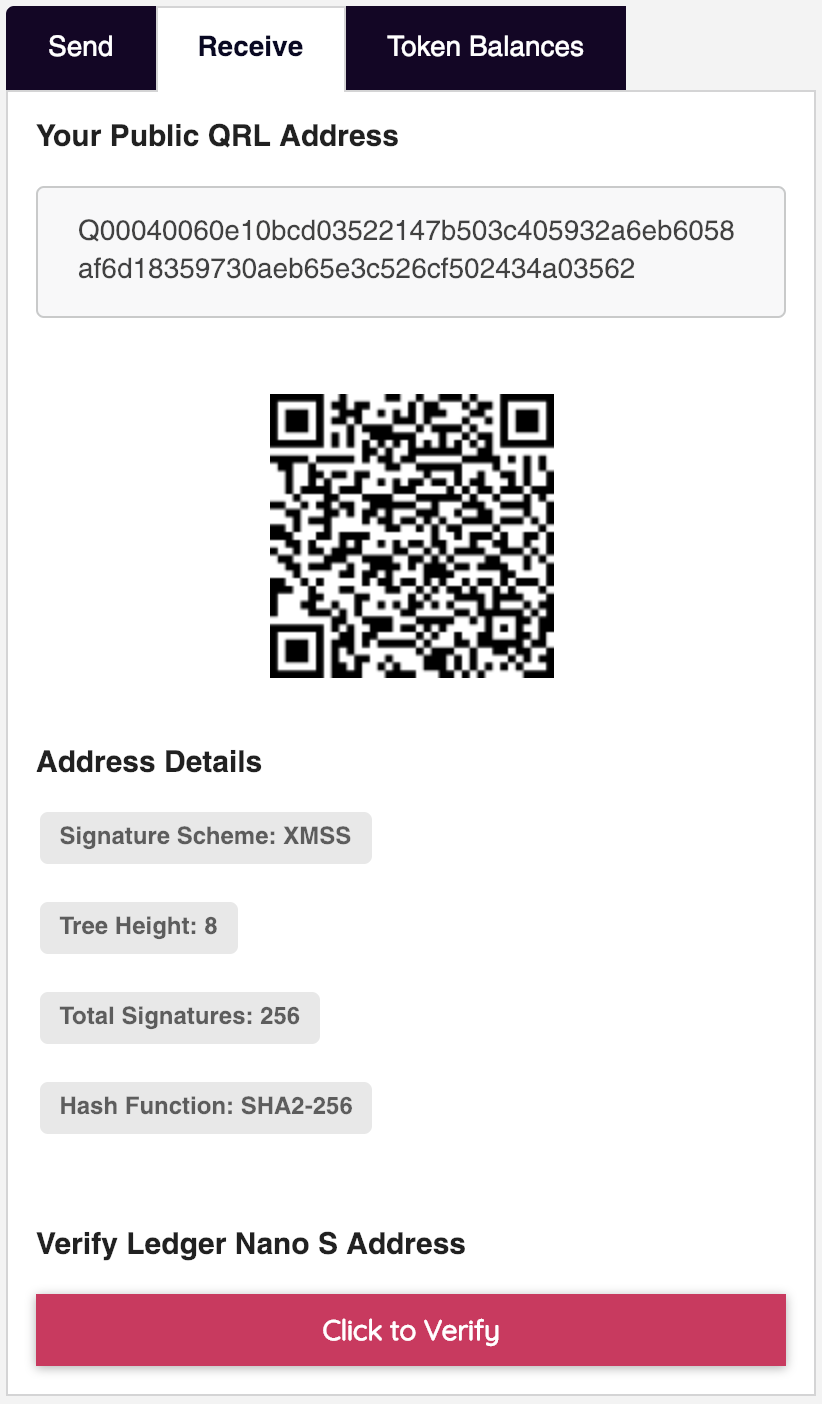
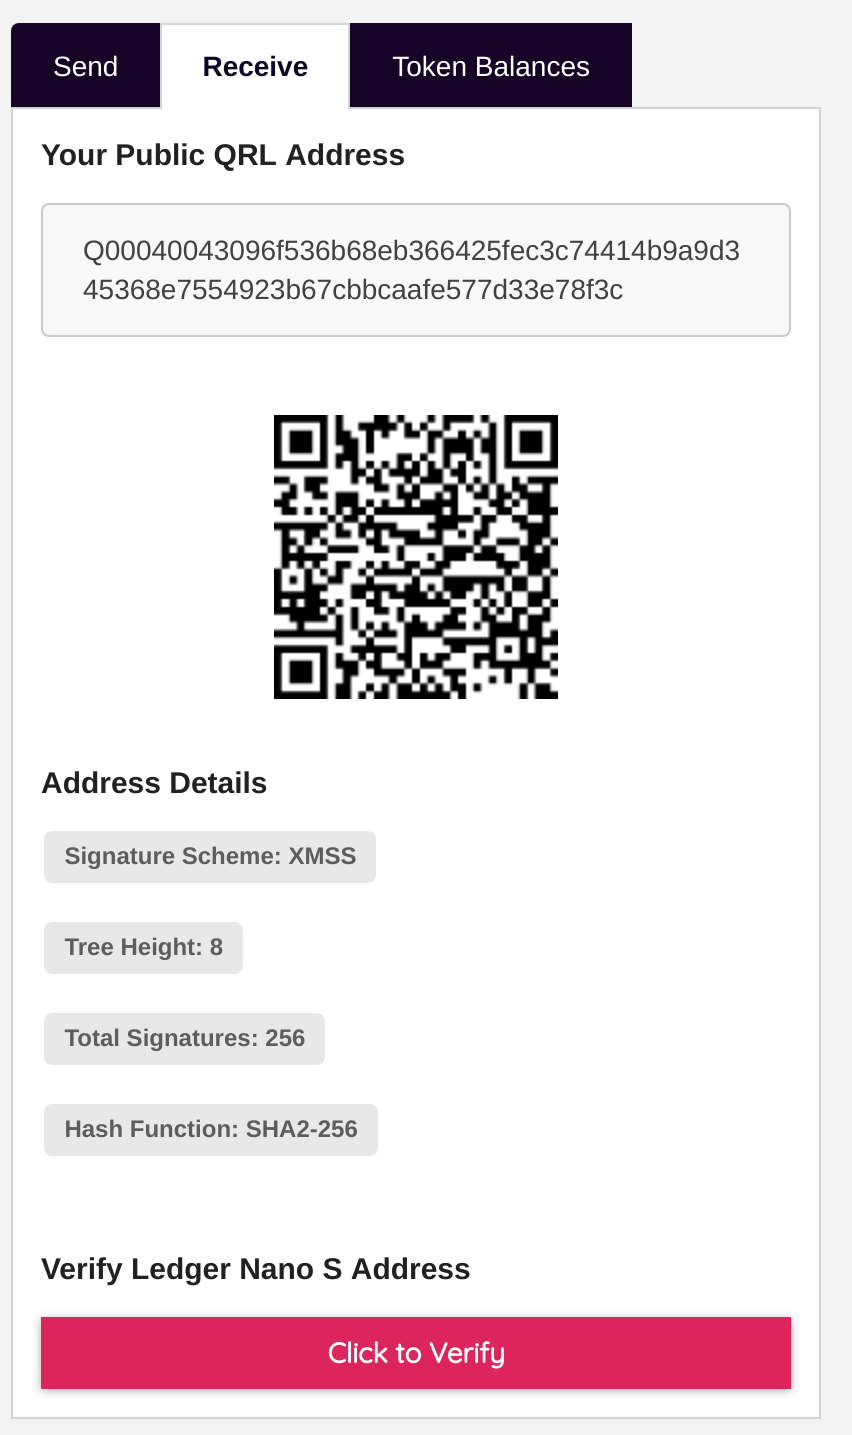
Ledger updates for new features (#7)
* Adding new gifs and some write up
* add ubuntu Fix-connection-issues link
* Cleanup and ledger quirks
* danger message
* cleanup

diff --git a/_layouts/documentation.html b/_layouts/documentation.html
@@ -10,7 +10,7 @@ layout: default
 				<div class="w12 get-involved">
 					<h1>Token Migration</h1>
 					<ul>
-						<li><a href="https://migration.theqrl.org/"">Token Migration Web App</a></li>
+						<li><a href="https://migration.theqrl.org/">Token Migration Web App</a></li>
 						<li><a href="/tokenmigration/video">Video Guide</a></li>
 						<li><a href="/tokenmigration/guide">Text Migration Guide</a> </li>
 					</ul>

diff --git a/_docs/wallet/ledger-nano-s.md b/_docs/wallet/ledger-nano-s.md
@@ -1,92 +1,203 @@
 ---
-title: Ledger Nano S Usage
+title: Ledger Nano S
 categories: wallet
 description: The QRL Ledger Nano-S Wallet documentation
-tags: [wallet, ledger, nano]
+tags: [wallet, Ledger, nano]
 ---
 
-##### This guide will walk you through
+The QRL development team has added some new features with the latest release we are very excited about. 
 
-* Installing the QRL App on your Ledger Nano S
-* Initialising the QRL App after installation on your Ledger Nano S
-* Accessing your QRL Wallet with the Ledger Nano S
+* Support for Ledger [Nano S](https://shop.ledger.com/products/ledger-nano-s) and [Nano X](https://shop.ledger.com/pages/ledger-nano-x)
+* Multi-Tree support
+* Plausible Deniability
+
+
+The QRL developers have worked to trim bits and bytes to get the XMSS trees to fit on the Ledger. After the latest optimizations in the latest firmware one can now load multiple trees and store more than one wallet on the Ledger Nano S. 
+
+
+#### This guide will walk you through
+
+* Installing the QRL App
+* Initializing XMSS trees in the QRL App 
+* Accessing your QRL Wallets with the Ledger Nano S
 * Receiving a transaction over the network - *(Receive QRL)*
 * Sending a transaction over the network - *(Send QRL)*
 * Checking transaction details on the QRL Explorer, including your current wallet balance
 * Manually setting the OTS Key Index on your Ledger Nano S device.
 
+
+### Multi-Tree Support
+
+This new feature adds the ability to store multiple XMSS trees on your Ledger Nano, Up to four (4) with the use of the new plausible deniability features. Each tree is limited still to 256 keys, however now you can sign up to 1024 combined transactions. 
+
+![MultiTree Support](/assets/wallet/web/ledger-nano-s/keyspace-small.png)
+
+This feature will allow you to store 2 QRL addresses with 256 available transactions each on your Ledger from each profile enabled *(Up to 4 addresses between 2 profiles)*.
+
+When you reach the end of your first address OTS key pool, you have the opportunity to send all funds to the second address and continue using the Ledger. 
+
+Once both trees have been consumed you will have to transfer funds into a new address, and re-initialize the Ledger to generate new keys. Don't worry too much though, the web/desktop wallet will warn you when your keys are close to running out. 
+
+
+### Plausible Deniability
+
+One of the most exciting features to roll out with this latest release is the ability to secure your funds from the *"$5 wrench attack"*. This new feature creates a secondary passphrase to open your Ledger device with. 
+
+This second account space allows another 2 QRL XMSS trees or *Addresses* to be created on the Ledger. To access the new account space on your Ledger you will enter the new passphrase you setup when you first power up the Ledger. 
+
+This will add an additional word to the 24 word mnemonic phrase, creating 2 word lists. The first being the typical 24 word Ledger recovery key, the second being the same 24 word phrase plus the additional word setup during configuration.
+
+
+![MultiTree Support](/assets/wallet/web/ledger-nano-s/keyspace2.png)
+
+
+To read more on the setup and configuration of the second account space see [this article from the Ledger team](https://support.ledger.com/hc/en-us/articles/115005214529-Advanced-passphrase-security)
+
+This feature is optional and there is no way to tell from the Ledger if you have configured this extra space. Plausibly deniable and fully recoverable secure funds!
+
+To setup the second address space, follow [The official ledger guide](https://support.ledger.com/hc/en-us/articles/115005214529-Advanced-passphrase-security). After you have secured the additional mnemonic word for the second space follow this guide again to initialize the 3rd and 4th QRL addresses.
+
+
+
+### Ledger Nano S Quirks
+
 Being Quantum Resistant comes with some inherent challenges. Before using the QRL Ledger Nano S app for your wallet, there are a few quirks worth noting about QRL. 
- 
-### OTS Key Index
 
-When you create a new wallet you create an XMSS tree, which is comprised of many one time use signatures. Every signature is referenced as your OTS index or [One Time Signature](/developers/ots) key index. 
 
-**The OTS key index is limited.** 
+#### Private Keys
 
-You can only use each key **ONCE**. When you've used your _last_ key, you will no longer be able to sign transactions. This cannot be stressed enough! 
+The Ledger will not print your *QRL* private key. This is stored on the Ledgers secure element, and the basis of what makes this device so secure. 
 
-> **NOTE** With your last key you must empty your wallet. If you use all of your OTS Key Indexes with funds in the wallet, these funds will be **lost FOREVER**
+You will be presented with a private key to restore your Ledger device during the initial setup. Any application secrets will be tied to this private key, and it is required to restore your wallet if ever needed.
+
+Store your Ledger Device seed (mnemonic) somewhere safe, in an encrypted manner if possible (Recommended you have this information stored in multiple physical locations)
+
+With the addition of plausible deniability there is an additional self-set mnemonic word that must be stored as well. This additional word can be up to 100 characters max and is case sensitive. 
+
+This additional word is needed as much as your 24 word mnemonic to be able to restore your funds. You can think of it as an extra 25th word that you can choose. 
+
+>**If you forget or lose your keys, nobody will be able to help you!**
 {: .info}
 
-The [QRL Web Wallet](https://wallet.theqrl.org/) will provide ample warnings you are running low on OTS Keys (<=50) to ensure you have plenty of time to move your coins to a new address.
 
-### Ledger Nano S Specific Quirks
-* Track all OTS Keys used in a spreadsheet
-> **NOTE** Your Ledger Nano S will keep track of OTS keys for you, however if you ever lose the device and need to reinstall on a new device, you will have to reset your XMSS index inside the [QRL Web Wallet](https://wallet.theqrl.org/). You can rely on the state of the node you're communicating with; however this will not keep track of failed transactions where a signature was broadcast to the network and subsequently failed. It is best to track all OTS key usage elsewhere to ensure you never reuse the same OTS key.
-* Store your Ledger Device seed (mnemonic) somewhere safe, in an encrypted manner if possible
-* Currently the QRL Ledger Nano S app does not support the creation and sending of QR Tokens on the QRL Network. Only native Quanta (QRL) transfers and Message Transaction types and derivatives of are currently supported. A future release of the QRL Ledger Nano S app will support token creation, sending and slave transaction functionality.
+#### OTS Key Index
 
-## Installing the QRL Ledger Nano S Application
+When you create a new wallet you create an XMSS tree, which is comprised of many one time use signatures. Every signature is referenced as your OTS index or [One Time Signature](/developers/ots) key index. The Ledger will now hold 2 XMSS trees (QRL Addresses) in it's memory space. 
+
+>**The OTS key index is limited.** You can only use each key **ONCE**. 
+{: .danger}
+
+When you've used your _last_ key, you will no longer be able to sign transactions. This cannot be stressed enough!
+
+Your Ledger Nano S will keep track of OTS keys for you, however if you ever lose the device and need to reinstall on a new device, you will have to reset your XMSS index inside the [QRL Web Wallet](https://wallet.theqrl.org/). You can rely on the state of the node you're communicating with; however this will not keep track of failed transactions where a signature was broadcast to the network and subsequently failed. It is best to track all OTS key usage elsewhere to ensure you never reuse the same OTS key.
+
+> **NOTE** With your last key you must empty your wallet. If you use all of your OTS Key Indexes with funds in the wallet, these funds will be **lost FOREVER** (Don't worry, there are plenty of warnings along the way.) 
+{: .info}
+
+The [QRL Web Wallet](https://wallet.theqrl.org/) will provide ample warnings you are running low on OTS Keys (<=50) to ensure you have plenty of time to move your coins to a new address. It is up to you to move them, however!
+
+#### OTS Key Tracking
+
+It's recommended that you track all OTS Keys used in a spreadsheet or similar media. The Nano S will keep track of your OTS keys for you, however if you ever lose the device and need to reinstall on a new Ledger Nano S you will need to know which OTS keys have been consumed, 
+
+> **The basic security of XMSS is based on using any key exactly one time.**
+{: .info}
+
+The QRL software has been developed in such a way to help users track their OTS keys, it is ultimately up to the user to track and insure they have not re-used any keys.
+
+Once you have restored your wallet on a new Ledger, manually set the XMSS OTS key index inside the [QRL Web Wallet](https://wallet.theqrl.org/) tools section. See below to [Manually Set XMSS Index](#manually-set-xmss-index)  
+
+You can rely on the state of the node you're communicating with; however this will not keep track of failed transactions where a signature was broadcast to the network and subsequently failed. 
+
+> **NOTE**  It is best to track all OTS key usage elsewhere to ensure you never reuse the same OTS key.
+{: .info}
+
+#### Tokens and Messages
+
+Currently the QRL Ledger Nano S app does not support the creation and sending of QR Tokens on the QRL Network. Only native Quanta (QRL) transfers and Message Transaction types and derivatives of are currently supported. 
+
+A future release of the QRL Ledger Nano S app will support token creation, sending and slave transaction functionality. In the mean time you can setup another address [following our guide](/wallet/basics) and use this for all on chain tool uses.
+
+## Installing the QRL Application
 
 Using the [Ledger Live](https://www.ledger.com/pages/ledger-live) application, follow these instructions:
 
 1. Open the **Manager** in Ledger Live
-2. Connect and unlock your Ledger Nano S
-3. Allow the Manager on your Ledger Nano S device by pressing the right button if asked
+2. **Connect and Unlock** your Ledger Nano S
+3. Allow the Manager on your Ledger Nano S device by pressing the right button when asked
 4. Search the App catalog for **QRL**, and click the **Install** button next to the QRL app.
 	- An installation window will appear, and your device will display **Processing...**
 	- The QRL App installation has completed on your Ledger Nano S
 
 ## Initialising the QRL App
 
-Before you can use the QRL Ledger Nano S App, it must first be initialised. The initialisation process will generate an XMSS tree on your Ledger Nano S device, which is a unique aspect of the QRL Network's signature scheme. This process only has to be completed once on your Ledger Nano S device. Please allow up to 45 minutes for this process to complete.
+Before you can use the QRL Ledger Nano S App, it must first be initialised. The initialisation process will generate an XMSS tree on your Ledger Nano S device, which is a unique aspect of the QRL Network's signature scheme. This process only has to be completed once on your Ledger Nano S device. Please allow up to 45 minutes for this process to complete for each tree. 
 
 To initialise your Ledger Nano S device for use with the QRL App, follow these instructions:
 
-1. Make sure your Ledger Nano S device is powered on and unlocked.
-2. Open the **QRL** app on your Ledger Nano S
-3. Your Ledger Nano S device will show **QRL not ready**. Scroll down and press both buttons on the **Init Device** menu option.
-4. Your Ledger Nano S device will show **keygen: 001/256**. This will slowly progress until all 256 keys have been generated.
-5. When this process has completed, your Ledger Nano S device will show **QRL READY rem:256** - indicating your device is ready, and you have 256 OTS Keys remaining.
-6. Your Ledger Nano S device has been initialised for the QRL app.
+1. Make sure your Ledger Nano S device is **Connected** and **Unlocked**.
+2. Open the **QRL app** on your Ledger Nano S
+3. Your Ledger Nano S device will show **QRL (Tree 1) not ready**. 
+4. Scroll down and press both buttons on the **Init Device** menu option.
+5. Your Ledger Nano S device will show **QRL (Tree 1) keygen: 001/256**. This will slowly progress until all 256 keys have been generated.
+6. When this process has completed, your Ledger Nano S device will show **QRL (Tree 1) READY rem:256** - indicating your device has finished generating tree 1 OTS keys, and you have 256 OTS Keys remaining in this Tree.
+7. Scroll down in the menu and chose **Switch Tree** with both buttons. You will now see **QRL (Tree 2) Not Ready**
+8. Initialize Tree 2 following the same steps above. Again this process will take about 45 minuets to complete.
 
-## Accessing your QRL Wallet with the Ledger Nano S
+> Generating XMSS Tree 1 on the Ledger. This will take a while, have patience. ![Initializing Tree 1](/assets/wallet/web/ledger-nano-s/init-crop1.gif) 
+
+Your Ledger Nano S device has been initialised for the QRL app, and contains 2 addresses (XMSS Trees) ready to deposit funds to. 2 addresses contain 256 OTS keys each which can be used to sign transactions on the QRL network.
+
+
+| QRL Tree | OTS Keys | Address |
+|-----|-----|-----| 
+| Tree 1 | 256 OTS | Q00040043096f536b68eb36ec3~~fe577d33e78f3c |
+| Tree 2 | 256 OTS | Q000400c722c2198837153a697~~5ee40365da6ee2 |
+
+## Accessing Wallet with Ledger
+
+1. Make sure your Ledger Nano S device is **Connected**, **Unlocked** and the **QRL App is Open**.
+2. Select the tree to open by scrolling to **Switch Tree** in the QRL menu.
+3. Visit [https://wallet.theqrl.org/](https://wallet.theqrl.org/) in your browser or open the QRL desktop wallet.
+4. Click **Open Wallet** on the left hand menu.
+5. On the right hand side, select **Ledger Nano S** in the drop down menu.
+6. Click the **Open Ledger Nano S** button.
+
+![Open QRL Ledger Nano S Wallet](/assets/wallet/web/ledger-nano-s/openWallet.png)
+
+This will present you with the unlocked QRL wallet ready to send or receive as seen below.
+
+![Opened QRL Ledger Nano S Wallet](/assets/wallet/web/ledger-nano-s/opened.png)
+
+> **NOTE** Ubuntu users may run into issues connecting to their Ledger devices. Please reference [this article *Fix-connection-issues*](https://support.ledger.com/hc/en-us/articles/115005165269-Fix-connection-issues) from Ledger explaining the issue and solution.
+{: .info}
+
+> **NOTE** Chrome Users, there is a bug with chrome that will not allow the Ledger to work. Please use another application or download the [qrl wallet](https://theqrl.org)
+{: .info}
 
 > **NOTE** If you are a Firefox user, ensure you have enabled **u2f** before proceeding. [Enabling U2F support in Mozilla Firefox](https://support.yubico.com/support/solutions/articles/15000017511-enabling-u2f-support-in-mozilla-firefox)
 {: .info}
 
-1. Make sure your Ledger Nano S device is powered on, unlocked and the QRL App is open.
-2. Visit [https://wallet.theqrl.org/](https://wallet.theqrl.org/) in your browser.
-3. Click **Open Wallet** on the left hand menu.
-4. On the right hand side, select **Ledger Nano S** in the drop down menu.
-5. Click the **Open Ledger Nano S** button.
+### Receive QRL
 
-![Open QRL Ledger Nano S Wallet](/assets/wallet/web/ledger-nano-s/open.png)
+You should **always** verify the address shown in the [QRL Web Wallet](https://wallet.theqrl.org/) matches the address shown on your Ledger Nano S device. To confirm your address, click the **Click to Verify** button on the receive tab of the wallet. 
 
-![Opened QRL Ledger Nano S Wallet](/assets/wallet/web/ledger-nano-s/opened.png)
 
-## Receive QRL
+![Address Verification Ledger Nano S Wallet](/assets/wallet/web/ledger-nano-s/AddressVerification.png)
 
-You should **always** verify the address shown in the [QRL Web Wallet](https://wallet.theqrl.org/) matches the address shown on your Ledger Nano S device. To confirm your address, click the **Click to Verify** button on the receive tab of the wallet. Your QRL address will appear on your computer, and on your Ledger Nano S device.
+Your QRL address will appear on your computer, and on your Ledger Nano S device.
+
+![Address Verification Ledger Nano S Wallet](/assets/wallet/web/ledger-nano-s/verify2.gif)
+
 
 Once you've confirmed your address on both devices, you can send your QRL address to whomever you are receiving coins from.
 
-> **NOTE** In the event you find the addresses do not match, you should immediately reach out to the QRL Team to report the issue. This could occur in the event a malicious actor has taken control of the QRL Web Wallet.
+> **NOTE** In the event you find the addresses do not match, you should immediately reach out to the QRL Team to report the issue @ [security@theqrl.org](mailto://security@theqrl.org) This could occur in the event a malicious actor has taken control of the QRL Web Wallet. 
 {: .info}
 
 ![QRL Receive](/assets/wallet/web/ledger-nano-s/receive.png)
 
-## Send QRL
+### Send QRL
 
 With the wallet unlocked, you can now send QRL.
 
@@ -99,9 +210,9 @@ To send QRL there are four fields you need to fill in:
 | **Recipient Address** | A valid QRL address |
 | **Amount** | How much QRL to send |
 | **Fee** | How much you are paying to make this transaction |
-| **OTS Key Index** | Enter an unused OTS Key |
+| **OTS Key Index** | Enter an unused OTS Key *should auto-populate*|
 
-Make sure everything is correct and click the confirm button. You will another confirmation of your transaction details.
+Make sure everything is correct and click the confirm button. You will get another confirmation of your transaction details.
 
 ![QRL Confirm Transaction](/assets/wallet/web/ledger-nano-s/confirm-txn.png)
 
@@ -109,21 +220,19 @@ If you are happy with the transaction details, click the **Sign with Ledger** Bu
 
 A window will appear prompting you to confirm the transaction details on your Ledger Nano S device.
 
-![QRL Ledger Nano Confirm Transaction](/assets/wallet/web/ledger-nano-s/ledger-confirm-txn.png)
+![QRL Ledger Nano Confirm Transaction](/assets/wallet/web/ledger-nano-s/SendQuanta.png)
 
 On your Ledger Nano S device, you can press **View transaction** to verify the From and To addresses, Amount(s) and Fee.
 
-![QRL Ledger Nano View Transaction](/assets/wallet/web/ledger-nano-s/ledger-nano-view-txn.png)
+![QRL Ledger Nano View Transaction](/assets/wallet/web/ledger-nano-s/sendQuantaSigned.png)
 
 When you've confirmed these details, proceed to press **Sign transaction**.
 
-![QRL Ledger Nano Sign Transaction](/assets/wallet/web/ledger-nano-s/ledger-nano-sign-txn.png)
 
-Your Ledger Nano S device will now display **SIGNING**
+![QRL Ledger Nano Sign Transaction](/assets/wallet/web/ledger-nano-s/send1.gif)
 
-![QRL Ledger Nano Signing](/assets/wallet/web/ledger-nano-s/ledger-nano-signing.png)
 
-Signing will take a few seconds to complete. When complete, you will see the following back on the QRL Wallet.
+Signing will take a few seconds. When complete, you will see the following back on the QRL Wallet.
 
 ![QRL Ledger Send Transaction](/assets/wallet/web/ledger-nano-s/ledger-send-txn.png)
 
@@ -133,12 +242,12 @@ You will see a progress tracker while your transaction is mined into a block.
 
 ![QRL Ledger Awaiting Block](/assets/wallet/web/ledger-nano-s/ledger-await-block.png)
 
-When the transaction is confirmed in the network, your Transaction History will automatically update to reflect your transaction.
+When the transaction is confirmed in the network, your Transaction History will automatically update to reflect your transaction. You can validate this using the [Block Explorer](https://explorer.theqrl.org)
 
 ![QRL Ledger Transaction Complete](/assets/wallet/web/ledger-nano-s/ledger-txn-complete.png)
 
 
-## Check Wallet Balance
+### Check Wallet Balance
 
 With the wallet opened you can see the balance in the main screen of the web wallet. You can also check your wallet balance without opening the wallet by browsing to the [QRL Explorer](https://explorer.theqrl.org) and entering your address into the search field.
 
@@ -146,7 +255,7 @@ With the wallet opened you can see the balance in the main screen of the web wal
 
 You will see all of the transactions the address has as well as the balance of quanta and any tokens held by the wallet.
 
-## Manually Set the XMSS Index on your Ledger Nano S device
+### Manually Set XMSS Index
 
 In the event you lose your Ledger Nano S device, or simply need to initialise or maintain the state of a second Ledger Nano S device, you can manually set the XMSS Index state on your Ledger Nano S device.
 
@@ -164,6 +273,9 @@ In the event you lose your Ledger Nano S device, or simply need to initialise or
 9. Click **Save New XMSS Index**. A confirmation window will appear, and your Ledger Nano S will ask you for confirmation.
 10. Your Ledger Nano S device will show **WARNING Set XMSS Index New Value XX** where _XX_ is the XMSS Index you entered.
 11. Press the right button on your Ledger Nano S to confirm, or left button to reject the update.
+
+![QRL Ledger Transaction Complete](/assets/wallet/web/ledger-nano-s/ToolsTab.png)
+
 
 ## QRL Ledger Nano S Video Demonstration
 

diff --git a/_docs/wallet/basics.md b/_docs/wallet/basics.md
@@ -39,7 +39,7 @@ The easiest way to generate a QRL wallet is by using the online wallet found her
 
  Keys stay in the memory space of the XMSS object, which is destroyed the moment you close the wallet, browser window, or desktop application.
 
-#### Create a New Wallet
+## Create a New Wallet
 
 Enter a strong password into the password field. The password must be at least 8 characters in length, and must contain at least 1 number and 1 letter
 
